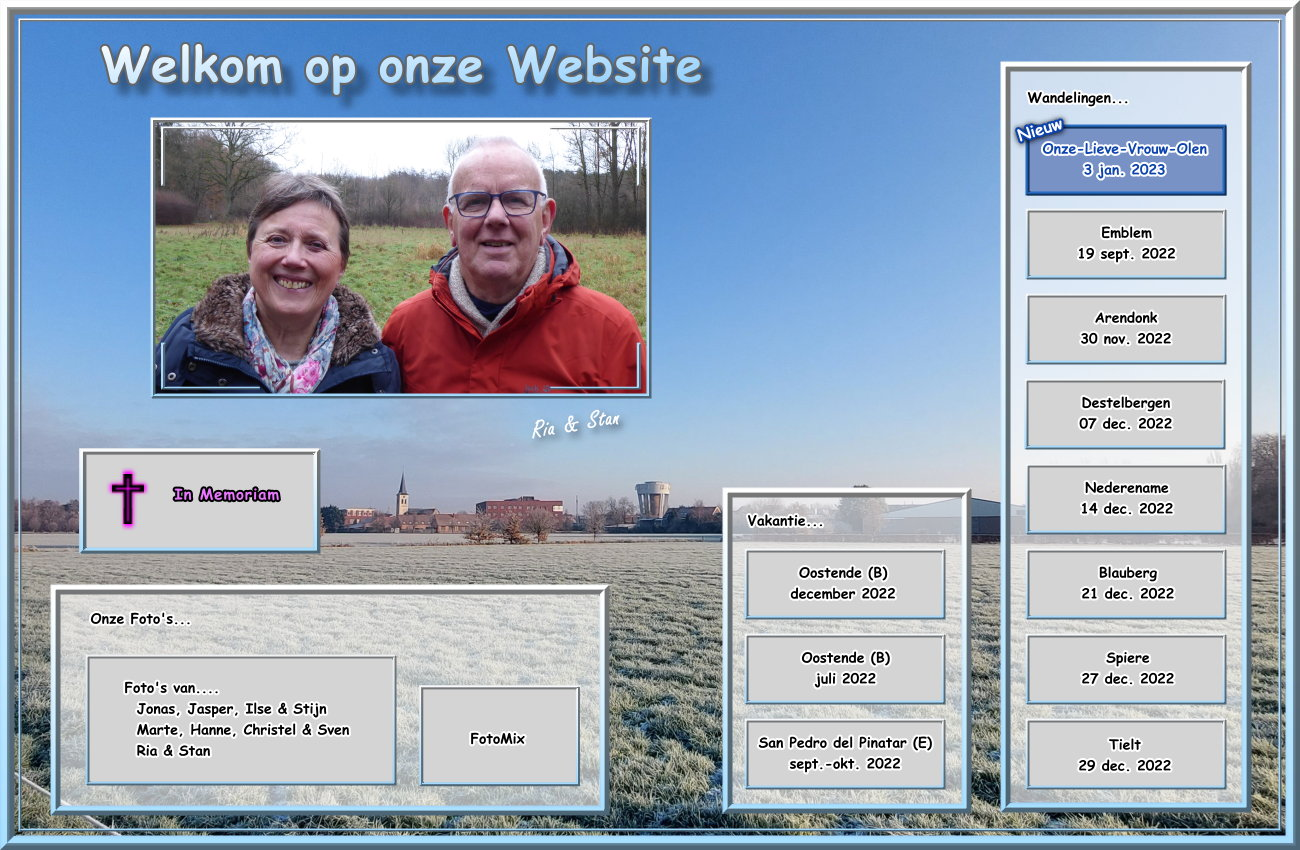
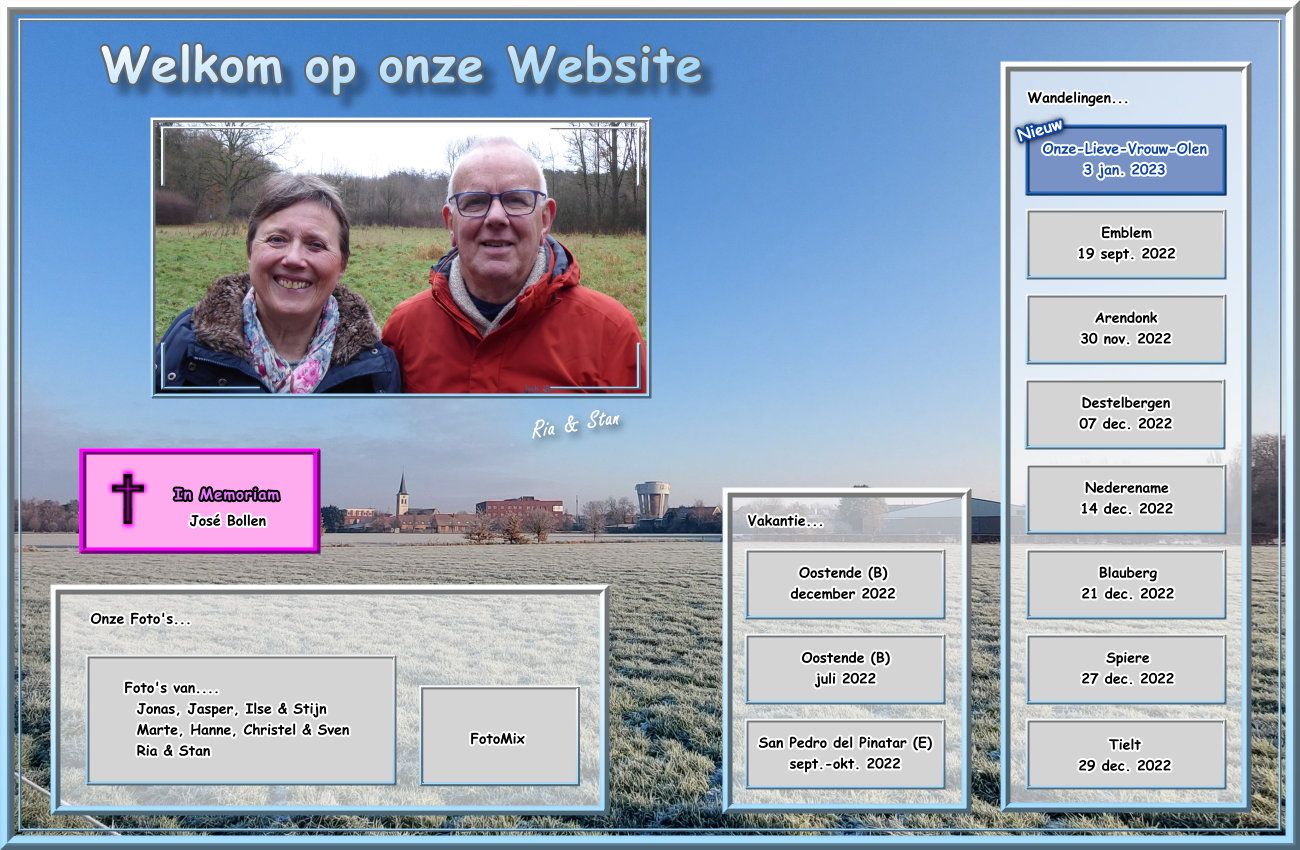
Jose Bollen

Changed region(s): [[0.0615, 0.52, 0.2462, 0.6729]]

diff --git a/_vti_cnf/in_memoriam.htm b/_vti_cnf/in_memoriam.htm
@@ -1,18 +1,18 @@
 vti_encoding:SR|utf8-nl
 vti_author:SR|HOME-PC\\Stan Claes
 vti_modifiedby:SR|PC-Home\\Stan
-vti_timelastmodified:TR|06 Feb 2022 15:56:43 -0000
+vti_timelastmodified:TR|05 Jan 2023 18:16:11 -0000
 vti_timecreated:TR|19 Mar 2010 12:04:13 -0000
 vti_title:SR|In Memoriam
 vti_extenderversion:SR|6.0.2.5516
 vti_backlinkinfo:VX|index.htm in_memoriam.htm
-vti_nexttolasttimemodified:TW|08 Jan 2021 08:43:03 -0000
-vti_cacheddtm:TX|06 Feb 2022 15:56:43 -0000
-vti_filesize:IR|5018
+vti_nexttolasttimemodified:TW|05 Jan 2023 18:08:04 -0000
+vti_cacheddtm:TX|05 Jan 2023 18:16:11 -0000
+vti_filesize:IR|5126
 vti_cachedtitle:SR|In Memoriam
 vti_cachedbodystyle:SR|<body background="Fotomap/in_memoriam/in_memoriam_back.jpg" style="background-attachment: fixed" leftmargin="150" rightmargin="150">
-vti_cachedlinkinfo:VX|S|Fotomap/in_memoriam/in_memoriam_back.jpg H|index.htm S|Fotomap/in_memoriam/naam.png S|Fotomap/in_memoriam/raymondebauwens.png S|Fotomap/in_memoriam/mariellepickaert.png S|Fotomap/in_memoriam/vers.png S|Fotomap/in_memoriam/evacarrillo.png S|Fotomap/in_memoriam/germainebollen.png S|Fotomap/in_memoriam/jeanmatthyssens.png S|Fotomap/in_memoriam/swaverlinden.png S|Fotomap/in_memoriam/arthurwouters.png S|Fotomap/in_memoriam/hildabakelants.png S|Fotomap/in_memoriam/alicebollen.png S|Fotomap/in_memoriam/brunhildemayer.png S|Fotomap/in_memoriam/blanco.png S|Fotomap/in_memoriam/germainestukkens.png S|Fotomap/in_memoriam/jossmeuninx.png S|Fotomap/in_memoriam/marcelkeller.png S|Fotomap/in_memoriam/frankvereycken.png S|Fotomap/in_memoriam/blanco.png S|Fotomap/in_memoriam/wilfriedvandenabbeele.png S|Fotomap/in_memoriam/rikluyckx.png S|Fotomap/in_memoriam/blanco.png S|Fotomap/in_memoriam/rikvercammen.png S|Fotomap/in_memoriam/raymondniewold.png S|Fotomap/in_memoriam/rosaliedirix.png S|Fotomap/in_memoriam/albertschelvis.png S|Fotomap/in_memoriam/blanco.png S|Fotomap/in_memoriam/thildawuyts.png S|Fotomap/in_memoriam/blanco.png S|Fotomap/in_memoriam/hubertdescrevel.png S|Fotomap/in_memoriam/albertebollen.png S|Fotomap/in_memoriam/blanco.png S|Fotomap/in_memoriam/deniscrollet.png S|Fotomap/in_memoriam/louisdewolf.png S|Fotomap/in_memoriam/freddynyberg.png K|in_memoriam.htm S|Fotomap/in_memoriam/terugbegin.png K|in_memoriam.htm
-vti_cachedsvcrellinks:VX|FSUS|Fotomap/in_memoriam/in_memoriam_back.jpg FHUS|index.htm FSUS|Fotomap/in_memoriam/naam.png FSUS|Fotomap/in_memoriam/raymondebauwens.png FSUS|Fotomap/in_memoriam/mariellepickaert.png FSUS|Fotomap/in_memoriam/vers.png FSUS|Fotomap/in_memoriam/evacarrillo.png FSUS|Fotomap/in_memoriam/germainebollen.png FSUS|Fotomap/in_memoriam/jeanmatthyssens.png FSUS|Fotomap/in_memoriam/swaverlinden.png FSUS|Fotomap/in_memoriam/arthurwouters.png FSUS|Fotomap/in_memoriam/hildabakelants.png FSUS|Fotomap/in_memoriam/alicebollen.png FSUS|Fotomap/in_memoriam/brunhildemayer.png FSUS|Fotomap/in_memoriam/blanco.png FSUS|Fotomap/in_memoriam/germainestukkens.png FSUS|Fotomap/in_memoriam/jossmeuninx.png FSUS|Fotomap/in_memoriam/marcelkeller.png FSUS|Fotomap/in_memoriam/frankvereycken.png FSUS|Fotomap/in_memoriam/blanco.png FSUS|Fotomap/in_memoriam/wilfriedvandenabbeele.png FSUS|Fotomap/in_memoriam/rikluyckx.png FSUS|Fotomap/in_memoriam/blanco.png FSUS|Fotomap/in_memoriam/rikvercammen.png FSUS|Fotomap/in_memoriam/raymondniewold.png FSUS|Fotomap/in_memoriam/rosaliedirix.png FSUS|Fotomap/in_memoriam/albertschelvis.png FSUS|Fotomap/in_memoriam/blanco.png FSUS|Fotomap/in_memoriam/thildawuyts.png FSUS|Fotomap/in_memoriam/blanco.png FSUS|Fotomap/in_memoriam/hubertdescrevel.png FSUS|Fotomap/in_memoriam/albertebollen.png FSUS|Fotomap/in_memoriam/blanco.png FSUS|Fotomap/in_memoriam/deniscrollet.png FSUS|Fotomap/in_memoriam/louisdewolf.png FSUS|Fotomap/in_memoriam/freddynyberg.png FKUS|in_memoriam.htm FSUS|Fotomap/in_memoriam/terugbegin.png FKUS|in_memoriam.htm
+vti_cachedlinkinfo:VX|S|Fotomap/in_memoriam/in_memoriam_back.jpg H|index.htm S|Fotomap/in_memoriam/naam.png S|Fotomap/in_memoriam/josebollen.png S|Fotomap/in_memoriam/raymondebauwens.png S|Fotomap/in_memoriam/mariellepickaert.png S|Fotomap/in_memoriam/vers.png S|Fotomap/in_memoriam/evacarrillo.png S|Fotomap/in_memoriam/germainebollen.png S|Fotomap/in_memoriam/jeanmatthyssens.png S|Fotomap/in_memoriam/swaverlinden.png S|Fotomap/in_memoriam/arthurwouters.png S|Fotomap/in_memoriam/hildabakelants.png S|Fotomap/in_memoriam/alicebollen.png S|Fotomap/in_memoriam/brunhildemayer.png S|Fotomap/in_memoriam/blanco.png S|Fotomap/in_memoriam/germainestukkens.png S|Fotomap/in_memoriam/jossmeuninx.png S|Fotomap/in_memoriam/marcelkeller.png S|Fotomap/in_memoriam/blanco.png S|Fotomap/in_memoriam/frankvereycken.png S|Fotomap/in_memoriam/blanco.png S|Fotomap/in_memoriam/wilfriedvandenabbeele.png S|Fotomap/in_memoriam/rikluyckx.png S|Fotomap/in_memoriam/rikvercammen.png S|Fotomap/in_memoriam/blanco.png S|Fotomap/in_memoriam/raymondniewold.png S|Fotomap/in_memoriam/rosaliedirix.png S|Fotomap/in_memoriam/albertschelvis.png S|Fotomap/in_memoriam/thildawuyts.png S|Fotomap/in_memoriam/hubertdescrevel.png S|Fotomap/in_memoriam/albertebollen.png S|Fotomap/in_memoriam/blanco.png S|Fotomap/in_memoriam/deniscrollet.png S|Fotomap/in_memoriam/louisdewolf.png S|Fotomap/in_memoriam/blanco.png S|Fotomap/in_memoriam/freddynyberg.png K|in_memoriam.htm S|Fotomap/in_memoriam/terugbegin.png K|in_memoriam.htm
+vti_cachedsvcrellinks:VX|FSUS|Fotomap/in_memoriam/in_memoriam_back.jpg FHUS|index.htm FSUS|Fotomap/in_memoriam/naam.png FSUS|Fotomap/in_memoriam/josebollen.png FSUS|Fotomap/in_memoriam/raymondebauwens.png FSUS|Fotomap/in_memoriam/mariellepickaert.png FSUS|Fotomap/in_memoriam/vers.png FSUS|Fotomap/in_memoriam/evacarrillo.png FSUS|Fotomap/in_memoriam/germainebollen.png FSUS|Fotomap/in_memoriam/jeanmatthyssens.png FSUS|Fotomap/in_memoriam/swaverlinden.png FSUS|Fotomap/in_memoriam/arthurwouters.png FSUS|Fotomap/in_memoriam/hildabakelants.png FSUS|Fotomap/in_memoriam/alicebollen.png FSUS|Fotomap/in_memoriam/brunhildemayer.png FSUS|Fotomap/in_memoriam/blanco.png FSUS|Fotomap/in_memoriam/germainestukkens.png FSUS|Fotomap/in_memoriam/jossmeuninx.png FSUS|Fotomap/in_memoriam/marcelkeller.png FSUS|Fotomap/in_memoriam/blanco.png FSUS|Fotomap/in_memoriam/frankvereycken.png FSUS|Fotomap/in_memoriam/blanco.png FSUS|Fotomap/in_memoriam/wilfriedvandenabbeele.png FSUS|Fotomap/in_memoriam/rikluyckx.png FSUS|Fotomap/in_memoriam/rikvercammen.png FSUS|Fotomap/in_memoriam/blanco.png FSUS|Fotomap/in_memoriam/raymondniewold.png FSUS|Fotomap/in_memoriam/rosaliedirix.png FSUS|Fotomap/in_memoriam/albertschelvis.png FSUS|Fotomap/in_memoriam/thildawuyts.png FSUS|Fotomap/in_memoriam/hubertdescrevel.png FSUS|Fotomap/in_memoriam/albertebollen.png FSUS|Fotomap/in_memoriam/blanco.png FSUS|Fotomap/in_memoriam/deniscrollet.png FSUS|Fotomap/in_memoriam/louisdewolf.png FSUS|Fotomap/in_memoriam/blanco.png FSUS|Fotomap/in_memoriam/freddynyberg.png FKUS|in_memoriam.htm FSUS|Fotomap/in_memoriam/terugbegin.png FKUS|in_memoriam.htm
 vti_cachedneedsrewrite:BR|false
 vti_cachedhasbots:BR|false
 vti_cachedhastheme:BR|false

diff --git a/in_memoriam.htm b/in_memoriam.htm
@@ -49,13 +49,14 @@ text-decoration: none;
 
 </div>
 <p align="center">
-<img border="0" src="Fotomap/in_memoriam/raymondebauwens.png" width="200" height="300">
+<img border="0" src="Fotomap/in_memoriam/josebollen.png" width="200" height="300">
 </p>
 
 <hr color="#CD036F">
 
 <p align="center">
 &nbsp;
+<img border="0" src="Fotomap/in_memoriam/raymondebauwens.png" width="200" height="300">&nbsp;&nbsp;&nbsp;&nbsp;
 <img border="0" src="Fotomap/in_memoriam/mariellepickaert.png" width="200" height="300">&nbsp;&nbsp;&nbsp;&nbsp;
 <img border="0" src="Fotomap/in_memoriam/vers.png" width="420" height="300">&nbsp;&nbsp;&nbsp;&nbsp;
 <img border="0" src="Fotomap/in_memoriam/evacarrillo.png" width="200" height="300">&nbsp;&nbsp;&nbsp;&nbsp;
@@ -70,23 +71,23 @@ text-decoration: none;
 <img border="0" src="Fotomap/in_memoriam/germainestukkens.png" width="200" height="300">&nbsp;&nbsp;&nbsp;&nbsp;
 <img border="0" src="Fotomap/in_memoriam/jossmeuninx.png" width="200" height="300">&nbsp;&nbsp;&nbsp;&nbsp;
 <img border="0" src="Fotomap/in_memoriam/marcelkeller.png" width="200" height="300">&nbsp;&nbsp;&nbsp;&nbsp;
+<img border="0" src="Fotomap/in_memoriam/blanco.png" width="200" height="300">&nbsp;&nbsp;&nbsp;&nbsp;
 <img border="0" src="Fotomap/in_memoriam/frankvereycken.png" width="200" height="300">&nbsp;&nbsp;&nbsp;&nbsp;
 <img border="0" src="Fotomap/in_memoriam/blanco.png" width="200" height="300">&nbsp;&nbsp;&nbsp;&nbsp;
 <img border="0" src="Fotomap/in_memoriam/wilfriedvandenabbeele.png" width="200" height="300">&nbsp;&nbsp;&nbsp;&nbsp;
 <img border="0" src="Fotomap/in_memoriam/rikluyckx.png" width="200" height="300">&nbsp;&nbsp;&nbsp;&nbsp;
-<img border="0" src="Fotomap/in_memoriam/blanco.png" width="200" height="300">&nbsp;&nbsp;&nbsp;&nbsp;
 <img border="0" src="Fotomap/in_memoriam/rikvercammen.png" width="200" height="300">&nbsp;&nbsp;&nbsp;&nbsp;
+<img border="0" src="Fotomap/in_memoriam/blanco.png" width="200" height="300">&nbsp;&nbsp;&nbsp;&nbsp;
 <img border="0" src="Fotomap/in_memoriam/raymondniewold.png" width="200" height="300">&nbsp;&nbsp;&nbsp;&nbsp;
 <img border="0" src="Fotomap/in_memoriam/rosaliedirix.png" width="200" height="300">&nbsp;&nbsp;&nbsp;&nbsp;
 <img border="0" src="Fotomap/in_memoriam/albertschelvis.png" width="200" height="300">&nbsp;&nbsp;&nbsp;&nbsp;
-<img border="0" src="Fotomap/in_memoriam/blanco.png" width="200" height="300">&nbsp;&nbsp;&nbsp;&nbsp;
 <img border="0" src="Fotomap/in_memoriam/thildawuyts.png" width="200" height="300">&nbsp;&nbsp;&nbsp;&nbsp;
-<img border="0" src="Fotomap/in_memoriam/blanco.png" width="200" height="300">&nbsp;&nbsp;&nbsp;&nbsp;
 <img border="0" src="Fotomap/in_memoriam/hubertdescrevel.png" width="200" height="300">&nbsp;&nbsp;&nbsp;&nbsp;
 <img border="0" src="Fotomap/in_memoriam/albertebollen.png" width="200" height="300">&nbsp;&nbsp;&nbsp;&nbsp;
 <img border="0" src="Fotomap/in_memoriam/blanco.png" width="200" height="300">&nbsp;&nbsp;&nbsp;&nbsp;
 <img border="0" src="Fotomap/in_memoriam/deniscrollet.png" width="200" height="300">&nbsp;&nbsp;&nbsp;&nbsp;
 <img border="0" src="Fotomap/in_memoriam/louisdewolf.png" width="200" height="300">&nbsp;&nbsp;&nbsp;&nbsp;
+<img border="0" src="Fotomap/in_memoriam/blanco.png" width="200" height="300">&nbsp;&nbsp;&nbsp;&nbsp;
 <img border="0" src="Fotomap/in_memoriam/freddynyberg.png" width="200" height="300"></p>
 
 <hr color="#CD036F">

diff --git a/_vti_cnf/index.htm b/_vti_cnf/index.htm
@@ -1,13 +1,13 @@
 vti_encoding:SR|utf8-nl
-vti_timelastmodified:TR|03 Jan 2023 18:56:56 -0000
+vti_timelastmodified:TR|05 Jan 2023 18:22:01 -0000
 vti_extenderversion:SR|6.0.2.5516
 vti_author:SR|PC-Home\\Stan
 vti_modifiedby:SR|PC-Home\\Stan
 vti_timecreated:TR|12 Dec 2015 14:26:20 -0000
 vti_title:SR|Welkom op onze website
 vti_backlinkinfo:VX|claes-bollen.htm familiefotos.htm denis.htm gildeclowns.htm fotomix.htm claes-faes.htm Polaroid_map2/fortb.htm fotoboek.htm vakantie_map4.htm in_memoriam.htm vakantie_map3.htm sneeuw.htm denis-claes.htm keukenhof.htm vakantie_map1.htm vakantie_map2.htm familiefotos_extra.htm ballon.htm wandeling_map7.htm kerstwensen.htm Polaroid_map1/paasfeest.htm wandeling_map8.htm index.htm wandeling_map5.htm wandeling_map6.htm fortb/fortb.htm ilse-stijn-extra.htm hanne5.htm bernaerts-claes.htm wandeling_map3.htm wandeling_map4.htm kerstmis.htm kerst.htm wandeling_map1.htm wandeling_map2.htm rs_info.htm
-vti_nexttolasttimemodified:TW|01 Jan 2023 15:40:36 -0000
-vti_cacheddtm:TX|03 Jan 2023 18:56:57 -0000
+vti_nexttolasttimemodified:TW|03 Jan 2023 18:56:56 -0000
+vti_cacheddtm:TX|05 Jan 2023 18:22:01 -0000
 vti_filesize:IR|6093
 vti_cachedtitle:SR|Welkom op onze website
 vti_cachedbodystyle:SR|<body style="background-attachment: fixed" background="index_back.jpg" leftmargin="100" rightmargin="100">

diff --git a/index.htm b/index.htm
@@ -152,7 +152,7 @@ if (browserok) {
 <font color="#FFFFFF">CCF 2023
 <img border="0" src="blanco.png" width="450" height="10"> 
 Laatste Update:&nbsp;
-<!--webbot bot="Timestamp" S-Type="EDITED" S-Format="%d %B %Y" startspan -->03 januari 2023<!--webbot bot="Timestamp" i-checksum="32586" endspan --></font></b></p>
+<!--webbot bot="Timestamp" S-Type="EDITED" S-Format="%d %B %Y" startspan -->05 januari 2023<!--webbot bot="Timestamp" i-checksum="32590" endspan --></font></b></p>
 
 </body>
 
